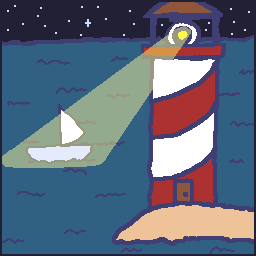
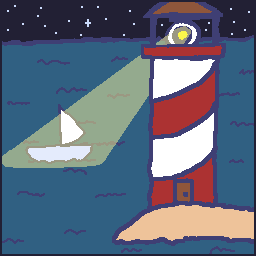
Edited the 404 page to be responsive
-Edited the 404 image
-Arranged the 404 page to be responsive

Changed region(s): [[0.5312, 0.1562, 0.7188, 0.375]]

diff --git a/Pages/404/index.html b/Pages/404/index.html
@@ -44,16 +44,21 @@
                 <span style="color: var(--text-footer-2);">e</span>
                 <span style="color: var(--title-color);">?</span>
             </div><br>
-            <img class="pixelimg" src="https://jaytheadventurer.github.io/The-Rainbow-Zone/Assets/UI-UX/404_lighthouse.png" alt="A red and white striped lighthouse shines a light on a lone boat drifing off into the sea."><br><br>
+            <div class="lighthouseimg">
+                <img class="pixelimg" src="https://jaytheadventurer.github.io/The-Rainbow-Zone/Assets/UI-UX/404_lighthouse.png" alt="A red and white striped lighthouse shines a light on a lone boat drifing off into the sea.">
+            </div>
+            <br><br>
             <b>The page you're looking for doesn't exist!</b><br><br>
-            <b>Either way, here's the link to head back <a href="https://jaytheadventurer.github.io/The-Rainbow-Zone/Pages/Home/index.html">home</a>
+            <b>Here's the link to head back <a href="https://jaytheadventurer.github.io/The-Rainbow-Zone/Pages/Home/index.html">home</a>
                 (or check out our sitemap <a href="https://jaytheadventurer.github.io/The-Rainbow-Zone/Pages/Sitemap/index.html">here</a>)!
             </b>
         </div>
         <style>
-            .notfound{text-align: center;}
+            .notfound{text-align: center; display: grid; place-items: center;}
             .notfound h2{font-size: 30px;}
-            .notfound img{max-width: 400px; min-width: 200px;}
+            .notfound b{margin: 10px 5px;}
+            .notfound img{width: 100%;}
+            .lighthouseimg{width: 400px;}
             .textwave{font-family: var(--secondary-font); font-size: 0px;}
             .textwave span{ display: inline-block; font-size: 30px; font-weight: 900; -webkit-animation: textwave 3s ease-in-out infinite; animation: textwave 5s ease-in-out infinite;}
             .textwave span:nth-of-type(1){ -webkit-animation-delay: 0s;animation-delay: 0s;}
@@ -85,6 +90,7 @@
                 50%{transform: translateY(-10px);}
                 100%{transform: translateY(0px);}
             }
+             @media only screen and (max-width:700px){.lighthouseimg{width: 200px;}}
         </style>
         <script src="https://jaytheadventurer.github.io/The-Rainbow-Zone/freezegifs.js"></script>
         <noscript>
